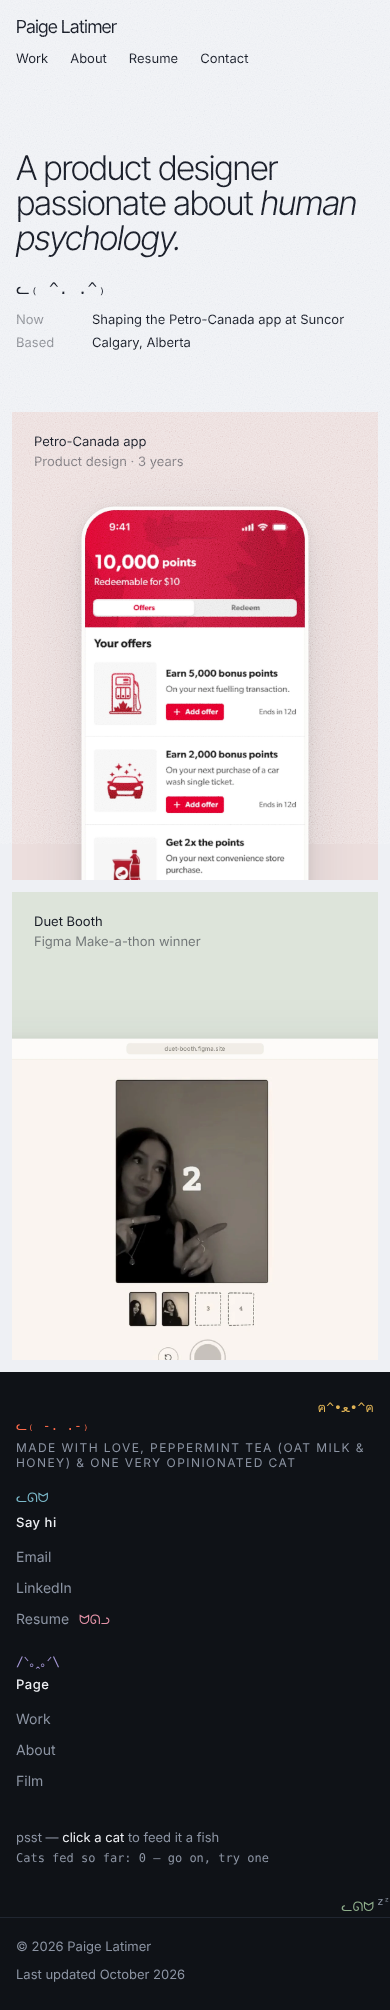
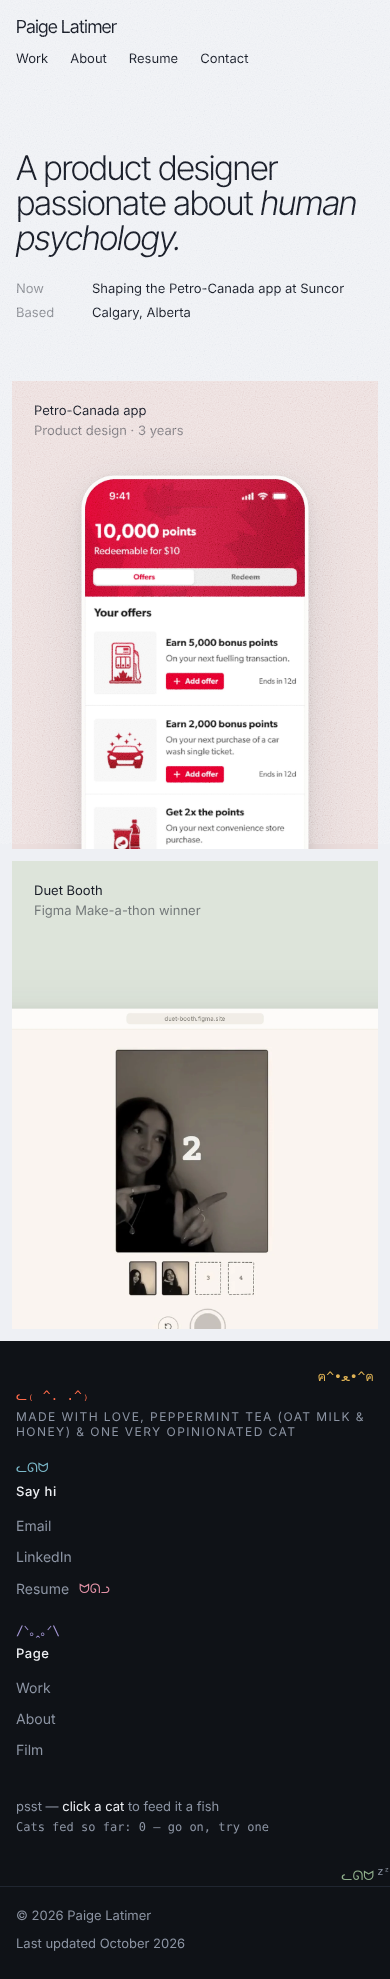
Take the cat out of the intro; the cats live in the footer
Claude-Session: https://claude.ai/code/session_01LVFAFj7EPf4VzMPLLNaaoo

diff --git a/index.html b/index.html
@@ -61,7 +61,6 @@
             <h1 class="rd-hero__title rd-anim" style="--rd-delay: 120ms">A product designer passionate about <em>human psychology.</em></h1>
 
             <dl class="rd-hero__facts rd-anim" style="--rd-delay: 200ms">
-                <div class="rd-hero__cat"><span class="rd-cat rd-cat--inline rd-cat--hero" style="--cat-color:#191d27"><span class="rd-cat__inner" data-face="ᓚ₍ ^. .^₎" data-fed="ᓚ₍ ^ω^₎" data-blink="ᓚ₍ -. .-₎">ᓚ₍ ^. .^₎</span></span></div>
                 <div><dt>Now</dt><dd>Shaping the Petro-Canada app at Suncor</dd></div>
                 <div><dt>Based</dt><dd>Calgary, Alberta</dd></div>
             </dl>

diff --git a/css/footer.css b/css/footer.css
@@ -190,15 +190,6 @@
     position: relative;
 }
 
-/* the cat above the homepage intro, on the light background */
-.rd-cat--hero .rd-cat__inner {
-    font-size: 16px;
-}
-
-.rd-cat--hero .rd-cat__treat {
-    color: #c98a2b;
-}
-
 .rd-cat__inner {
     display: inline-block;
     font-family: 'SFMono-Regular', ui-monospace, Menlo, Consolas, monospace;

diff --git a/css/redesign.css b/css/redesign.css
@@ -148,11 +148,6 @@ body.redesign::after {
     margin: 0;
 }
 
-.rd-hero__facts .rd-hero__cat {
-    display: block;
-    margin-bottom: 10px;
-}
-
 /* WORK */
 
 .rd-work {
